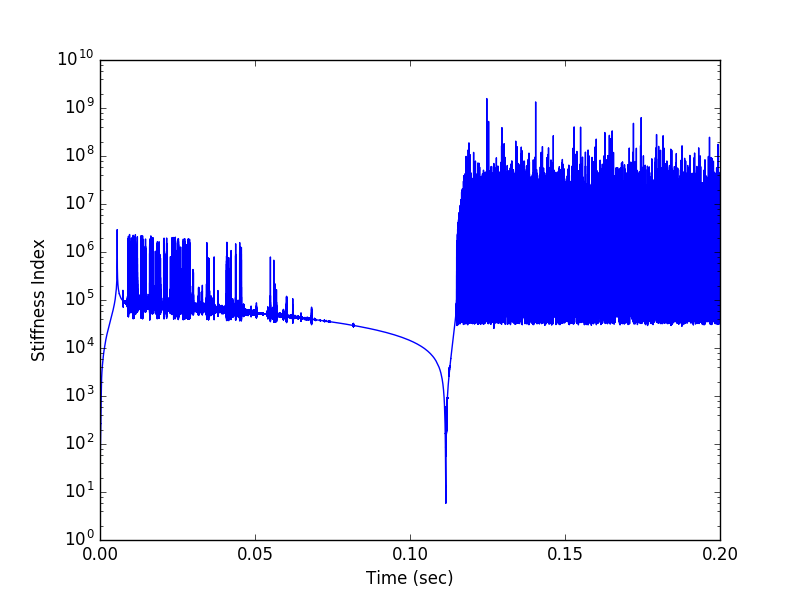
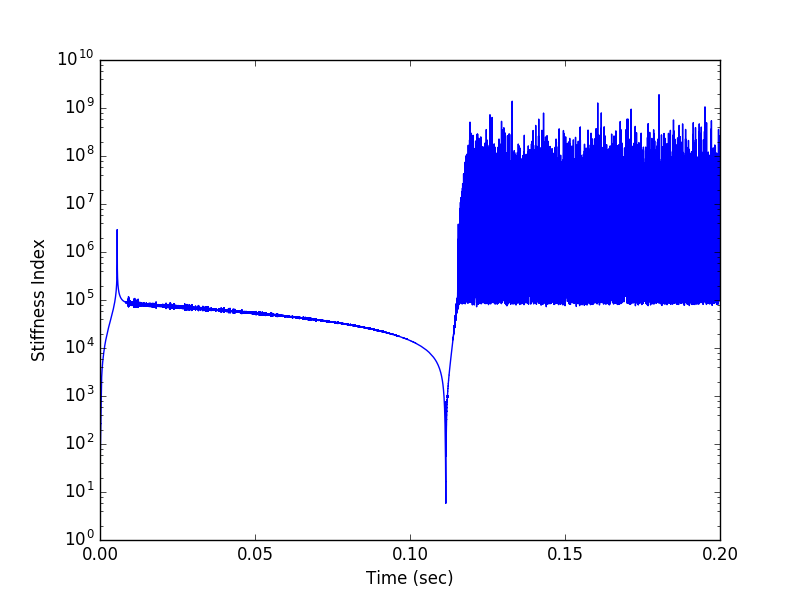
Reran plots.

diff --git a/Stiffness_CO_H2_rogers_6_21_17_validation.py b/Stiffness_CO_H2_rogers_6_21_17_validation.py
@@ -167,8 +167,8 @@ tstop = 0.2
 tlist = np.arange(tstart, tstop + 0.5 * dt, dt)
 
 # ODE Solver parameters
-abserr = 8.0e-15
-relerr = 1.0e-12
+abserr = 1.0e-15
+relerr = 1.0e-10
 
 # Load the initial conditions from the PaSR files
 pasrarrays = []
